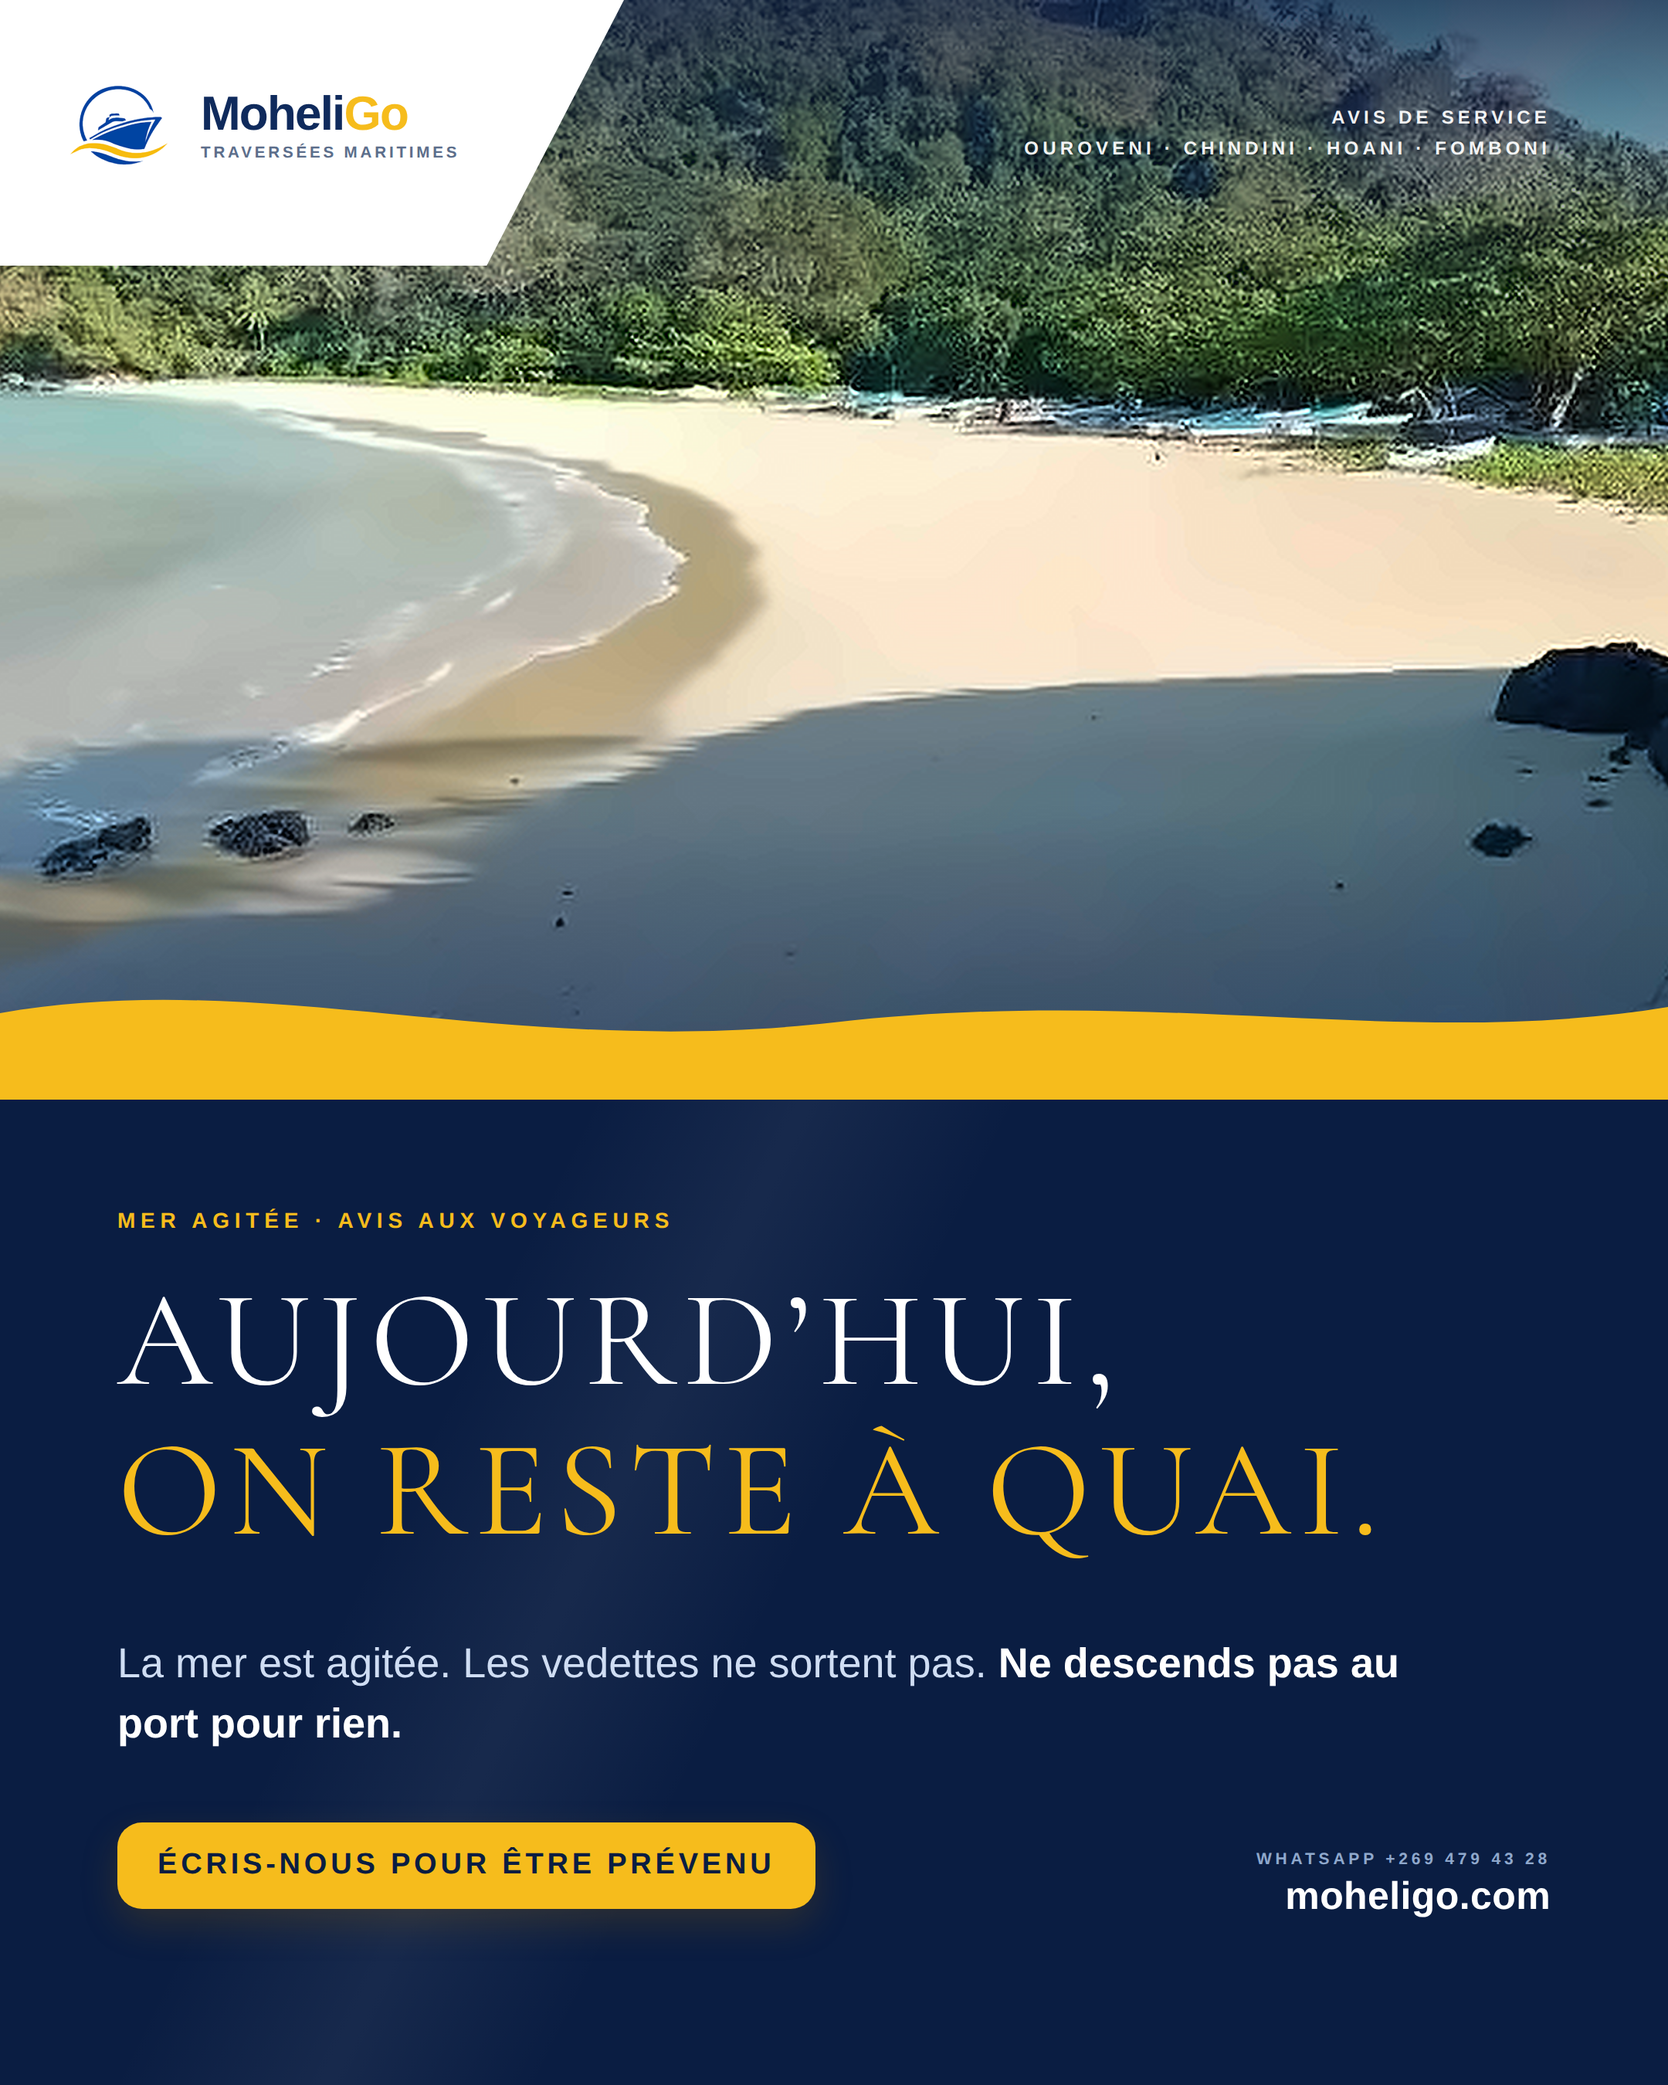
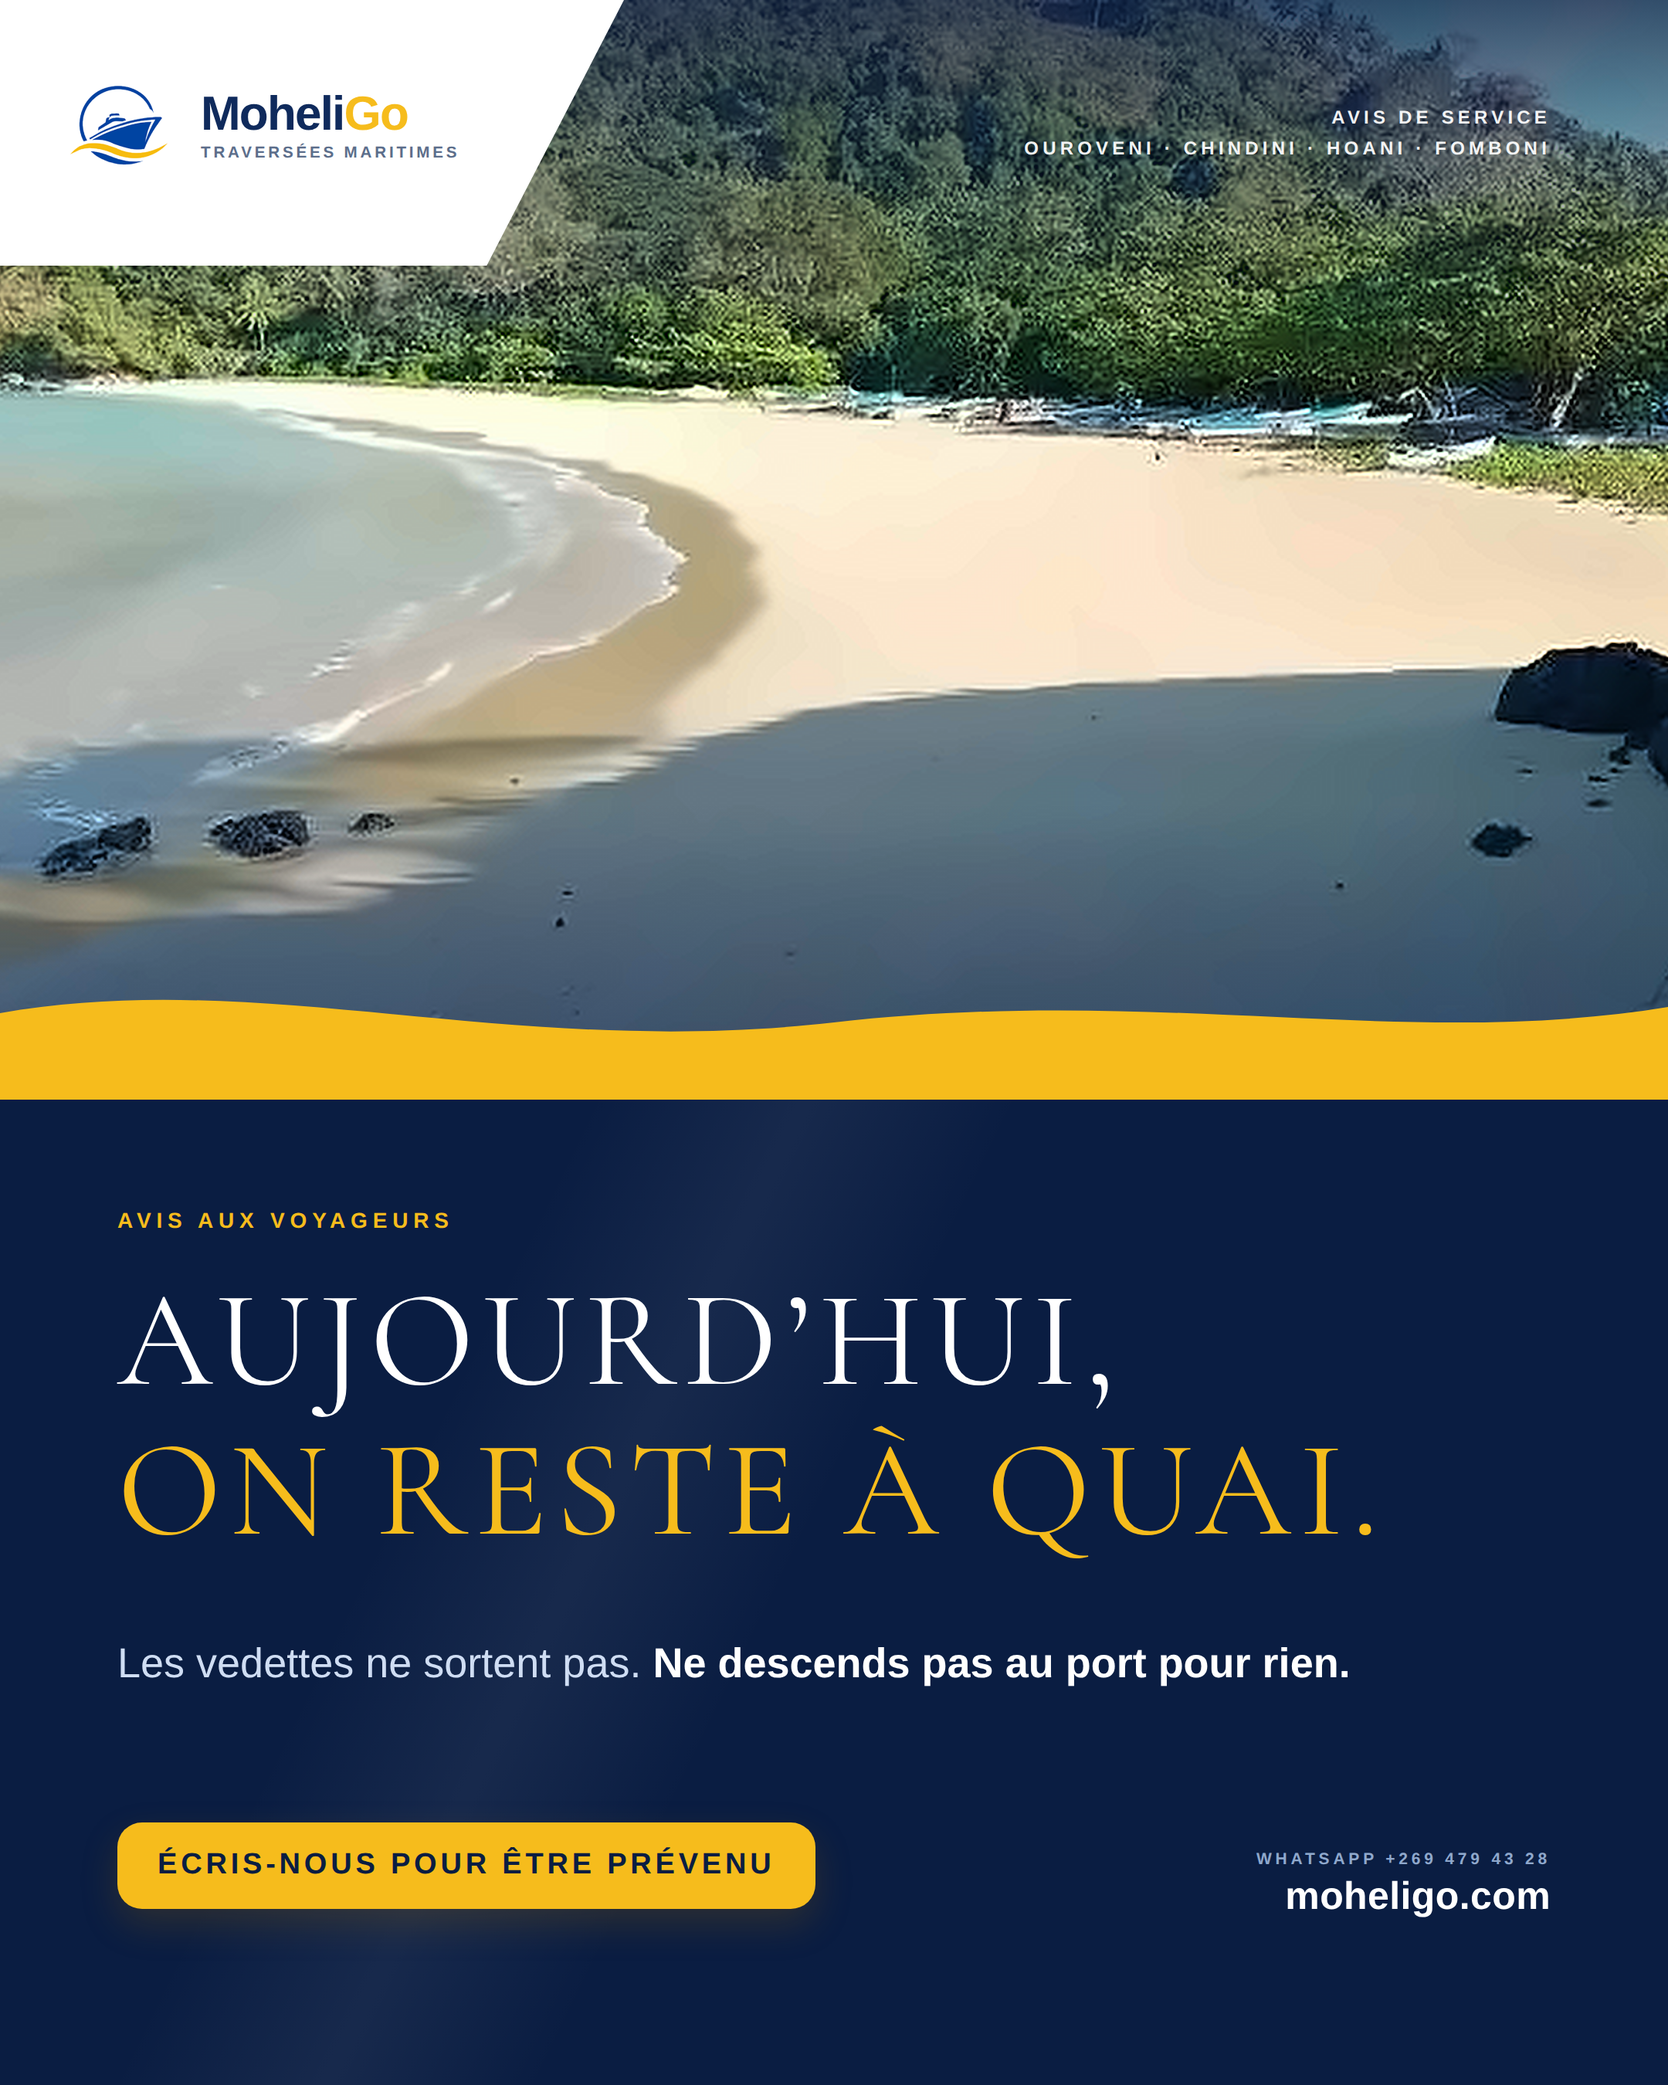
Premier jour de fermeture : quatre mensonges arretes avant midi
Le visuel du mercredi n'a pas ete publie : refaire.py lit la photo d'origine du
patron dans /root/.claude/uploads/, un depot de session efface avec le conteneur
precedent. La chaine complete est dans le depot, sa matiere premiere non — un
programme reproductible qui lit un fichier hors du depot ne l'est pas. L'ecran
affiche 09/09/2026, soit AUJOURD'HUI, un jour sans depart.

L'avis de suspension prend sa place, apres trois corrections :

1. LA CAUSE SORT DES VISUELS ET DES TEXTES FIGES. « MER AGITEE » etait grave
   dans le surtitre, « La mer est agitee » dans le corps, « c'est la mer qui
   decide » dans paragraphe_reprise(), et programme.py avait un repli
   `raison or 'la mer'`. Quatre endroits, tous vrais les deux fois precedentes.
   Le patron a ferme sans dire pourquoi : un repli qui invente n'est pas un
   repli. Un visuel qu'on republie ne porte que ce qui ne change pas.
2. LE REMBOURSEMENT. « Tu peux annuler et etre rembourse » — or il repasse par
   MVola, hors service. service.phrase_remboursement() garde le droit entier et
   dit que l'argent attendra, avant qu'on nous le demande.
3. L'ANNONCE MVOLA disait encore « les vedettes partent normalement », collee
   sous un avis qui dit « on reste a quai ». Elle lit maintenant ouvert().

Deux pannes simultanees ne s'additionnent pas, elles se croisent : chaque
mention etait juste sur son etat et aveugle a l'autre.

Controles sur l'avis refait : conforme, zero collision, famille 5/5, 18,5 %.
[…]

Changed region(s): [[0.062, 0.7778, 0.8375, 0.84], [0.062, 0.56, 0.2792, 0.5911], [0.3412, 0.56, 0.4032, 0.5911]]

diff --git a/moheligo/pub/flyers/flyer31-suspension-fb.html b/moheligo/pub/flyers/flyer31-suspension-fb.html
@@ -171,12 +171,27 @@ body { width:1080px; height:1350px; font-family:'Inter',sans-serif; -webkit-font
     <div><b>Moheli<i>Go</i></b><small>TRAVERSÉES MARITIMES</small></div>
   </div>
 
+  <!-- 🚩 09/09/2026 — LA CAUSE SORT DU VISUEL, ET C'EST DÉFINITIF.
+       Ce visuel disait « MER AGITÉE » en surtitre et « La mer est agitée » dans
+       le corps. Il a servi le 12/08 et le 26/08, deux fermetures dues à la mer —
+       donc c'était vrai, et personne n'a vu le piège.
+       ⛔ LE 09/09 LE PATRON A FERMÉ SANS DIRE POURQUOI : « les liaisons sont
+       suspendues jusqu'à nouvel ordre. » La mer montait (1,94 m annoncé), mais
+       une raison PLAUSIBLE n'est pas une raison DONNÉE — si la cause est une
+       avarie ou une décision administrative, ce visuel publie un mensonge, et il
+       reste sur la page pour toujours.
+       📌 **UN VISUEL QU'ON REPUBLIE NE DOIT PORTER QUE CE QUI NE CHANGE PAS.**
+       Ce qui ne change jamais d'une fermeture à l'autre : les vedettes ne
+       sortent pas, ne descends pas au port. La cause, elle, change à chaque
+       fois — elle vit donc dans le TEXTE du post, qui se fabrique le jour même
+       à partir de `service.FERMETURE['raison']`, et disparaît quand on ne la
+       connaît pas. -->
   <div class="ligne">AVIS DE SERVICE<br>OUROVENI · CHINDINI · HOANI · FOMBONI</div>
 
-  <div class="sur">MER AGITÉE · AVIS AUX VOYAGEURS</div>
+  <div class="sur">AVIS AUX VOYAGEURS</div>
   <div class="acc">AUJOURD’HUI,<span>ON RESTE À QUAI.</span></div>
 
-  <div class="dit">La mer est agitée. Les vedettes ne sortent pas.
+  <div class="dit">Les vedettes ne sortent pas.
     <b>Ne descends pas au port pour rien.</b></div>
 
   <div class="cta">ÉCRIS-NOUS POUR ÊTRE PRÉVENU</div>

diff --git a/moheligo/pub/flyers/service.py b/moheligo/pub/flyers/service.py
@@ -346,6 +346,23 @@ def mention_paiement():
     ✍ Apostrophes typographiques ’ et non ' (norme § 5) : ce paragraphe part
     sur tout ce qu'on publie, c'est le passage le plus lu de la période.
     """
+    # 🚨 09/09/2026 — CETTE ANNONCE DISAIT « LES VEDETTES PARTENT NORMALEMENT »,
+    # ET C'EST DEVENU FAUX EN UNE NUIT. Écrite le 03/09, elle était juste : seul
+    # le paiement était tombé. Le 09/09 le patron suspend les liaisons, et
+    # l'annonce a continué à affirmer le contraire — collée, en plus, SOUS l'avis
+    # de suspension qui disait « on reste à quai ». Le même post se contredisait
+    # à quinze lignes d'écart.
+    # 📌 **DEUX PANNES SIMULTANÉES NE S'ADDITIONNENT PAS, ELLES SE CROISENT.**
+    # Chaque mention était juste sur SON état et aveugle à l'autre. Une mention
+    # qui parle d'un état voisin doit lire cet état, sinon elle le périme.
+    # ⚠ Et pendant la fermeture elle se raccourcit : la place se prend pour les
+    # jours à venir (c'est la mention de fermeture qui le dit), l'annonce n'a
+    # plus qu'à expliquer par où passer.
+    if not ouvert():
+        return ("""⚠ %s : MVola est hors service.
+Pour retenir une place sur les jours à venir, écris-nous sur WhatsApp au
++269 479 43 28 : on la prend à la main, le temps que MVola revienne."""
+                % MARQUE_PANNE)
     return ("""⚠ %s : MVola est hors service.
 Les vedettes partent normalement — c’est le paiement qui est tombé, pas la
 traversée. Écris-nous sur WhatsApp au +269 479 43 28 : on prend ta place à la
@@ -504,10 +521,44 @@ def paragraphe_reprise():
         titre = 'QUAND ÇA REPREND : C’EST PRÉVU %s.' % jour.upper()
     else:
         titre = 'QUAND ÇA REPREND : ON NE LE SAIT PAS ENCORE.'
+    # 🚩 09/09/2026 — « C'EST LA MER QUI DÉCIDE » NE SORT QUE SI C'EST LA MER.
+    # Cette phrase de prudence était écrite en dur. Elle a toujours été vraie —
+    # les deux fermetures précédentes venaient de la houle — mais elle DÉSIGNE
+    # UNE CAUSE, et le 09/09 le patron a fermé sans en donner. Une phrase de
+    # prudence qui invente une cause n'est plus prudente.
+    # 📌 Sans raison connue, on garde ce qui reste vrai dans tous les cas : nous
+    # ne décidons pas des départs.
+    prudence = ('c’est la mer qui décide, et nous ne décidons pas\ndes départs'
+                if FERMETURE.get('raison') else
+                'nous ne décidons pas des départs')
     return (titre + '\n'
-            'Ce n’est pas une date promise — c’est la mer qui décide, et nous ne '
-            'décidons pas\ndes départs. Le jour où ça rouvre, tu le liras ici en '
-            'premier.')
+            'Ce n’est pas une date promise — %s.\nLe jour où ça rouvre, tu le '
+            'liras ici en premier.' % prudence)
+
+
+def phrase_remboursement():
+    """Ce qu'on promet sur l'annulation — et qui dépend de l'état du PAIEMENT.
+
+    🚨 09/09/2026 — TROUVÉ EN RELISANT L'AVIS DE SUSPENSION AVANT DE LE PUBLIER.
+    Le texte disait, sans condition : « tant que la traversée n'est pas partie,
+    tu peux annuler et être remboursé ». Or **le remboursement repasse par
+    MVola**, qui est hors service depuis le 03/09. Le même post aurait promis un
+    remboursement immédiat et annoncé, huit lignes plus bas, que le paiement en
+    ligne est mort.
+    📌 **DEUX PANNES SIMULTANÉES NE S'ADDITIONNENT PAS, ELLES SE CROISENT.** La
+    fermeture pousse les gens à annuler ; la panne de paiement empêche de les
+    rembourser. Aucune des deux mentions, prise seule, ne voyait ce croisement —
+    il fallait qu'une phrase connaisse LES DEUX états.
+    ⚠ On ne retire pas le droit d'annuler : il reste entier. On dit seulement
+    que l'argent attendra, et on le dit AVANT qu'on nous le demande.
+    """
+    if not paiement_en_panne():
+        return ('Et tant que la traversée n’est pas partie, tu peux annuler et '
+                'être\nremboursé. Écris-nous, on s’en occupe.')
+    return ('Tu peux aussi annuler,\nton droit reste entier — mais le '
+            'remboursement passe par MVola, qui est hors\nservice : il partira '
+            'dès que MVola revient. Écris-nous, on note ton annulation\ntout de '
+            'suite.')
 
 
 def commentaire_bulletin():

diff --git a/moheligo/pub/flyers/programme.py b/moheligo/pub/flyers/programme.py
@@ -74,9 +74,20 @@ def avis_de_suspension():
     """(visuel, texte) de l'avis de service suspendu, daté depuis service.py."""
     modele = next(f['texte'] for f in page.FLYERS if f['png'] == service.VISUEL_AVIS)
     d = datetime.date.fromisoformat(service.FERMETURE['depuis'])
+    # 🚩 09/09/2026 — LA CAUSE EST UNE PHRASE ENTIÈRE, OU RIEN DU TOUT.
+    # Avant : `raison=... or 'la mer'`, et le texte ouvrait sur « La mer est
+    # agitée. » écrit en dur. Deux façons d'affirmer une cause qu'on ne connaît
+    # pas toujours — le 09/09 le patron a fermé sans dire pourquoi.
+    # 📌 **UN REPLI QUI INVENTE N'EST PAS UN REPLI.** `or 'la mer'` avait l'air
+    # prudent : il fabriquait quand même une explication. Maintenant, pas de
+    # raison = pas de phrase, et le paragraphe se referme tout seul.
+    raison = service.FERMETURE.get('raison')
     return service.VISUEL_AVIS, modele.format(
         depuis='%d %s' % (d.day, MOIS[d.month - 1]),
-        raison=service.FERMETURE.get('raison') or 'la mer',
+        cause='%s%s. ' % (raison[0].upper(), raison[1:]) if raison else '',
+        # ⚠ L'annulation dépend de l'état du PAIEMENT, pas de celui du service :
+        # le remboursement repasse par MVola (voir service.phrase_remboursement).
+        remboursement=service.phrase_remboursement(),
         # ⚠ jamais écrit en dur : une date de reprise ne sort que si le patron
         # en a donné une (service.paragraphe_reprise)
         reprise=service.paragraphe_reprise())

diff --git a/moheligo/dossier/MEMOIRE.md b/moheligo/dossier/MEMOIRE.md
@@ -370,6 +370,54 @@ recharger ce sujet ici, ce n'est pas du marketing.
 
 ## 6. Journal des sessions
 
+- **09/09/2026 (🚨 QUATRE MENSONGES ARRÊTÉS AVANT MIDI — le jour où les deux
+  pannes se sont croisées)** — premier jour de la fermeture. Le visuel du
+  mercredi était impubliable et l'avis de suspension mentait : rien n'est parti
+  avant d'être refait.
+
+  ⛔ **1. LE VISUEL DU MERCREDI NE POUVAIT PAS ÊTRE RÉGÉNÉRÉ.** `refaire.py` lit
+  la photo d'origine du patron dans `/root/.claude/uploads/…` — **un dépôt de
+  session, effacé avec le conteneur précédent**. La chaîne complète (capture de
+  l'appli, mise en scène, agrandissement) est dans le dépôt ; **sa matière
+  première n'y est pas.**
+  📌 **UN PROGRAMME REPRODUCTIBLE QUI LIT UN FICHIER HORS DU DÉPÔT N'EST PAS
+  REPRODUCTIBLE.** Il l'a été tant que la session durait, ce qui donnait l'air
+  d'un outil fini. L'écran affiche `09/09/2026`, c'est-à-dire AUJOURD'HUI — une
+  recherche de traversée pour un jour sans départ. **Non publié.**
+  👉 À demander au patron : renvoyer la photo du téléphone, et elle rentre cette
+  fois DANS le dépôt.
+
+  ⛔ **2. L'AVIS DE SUSPENSION AFFIRMAIT UNE CAUSE QU'IL N'A PAS DONNÉE.** Le
+  visuel gravait « MER AGITÉE » en surtitre, le texte ouvrait sur « La mer est
+  agitée », `paragraphe_reprise()` ajoutait « c'est la mer qui décide », et
+  `programme.py` avait un repli `raison or 'la mer'`. **Quatre endroits, tous
+  écrits en dur, tous vrais les deux fois précédentes.**
+  📌 **UN REPLI QUI INVENTE N'EST PAS UN REPLI** — `or 'la mer'` avait l'air
+  prudent et fabriquait quand même une explication.
+  📌 **UN VISUEL QU'ON REPUBLIE NE DOIT PORTER QUE CE QUI NE CHANGE PAS.** Les
+  vedettes ne sortent pas : vrai à chaque fermeture. La cause : jamais deux fois
+  la même. Elle vit désormais dans le texte, fabriqué le jour même, et disparaît
+  quand on ne la connaît pas.
+
+  ⛔ **3. L'AVIS PROMETTAIT UN REMBOURSEMENT QUE MVOLA NE PEUT PAS FAIRE.**
+  « Tu peux annuler et être remboursé » — or le remboursement repasse par MVola,
+  hors service depuis six jours. Le même post l'aurait promis puis annoncé
+  l'inverse huit lignes plus bas. ✅ `service.phrase_remboursement()` : le droit
+  d'annuler reste entier, **et on dit que l'argent attendra, avant qu'on nous le
+  demande.**
+
+  ⛔ **4. L'ANNONCE MVOLA DISAIT ENCORE « LES VEDETTES PARTENT NORMALEMENT ».**
+  Écrite le 03/09, elle était juste : seul le paiement était tombé. Six jours
+  plus tard elle se retrouvait collée SOUS l'avis qui dit « on reste à quai ».
+  ✅ Elle lit maintenant `ouvert()` et se raccourcit pendant la fermeture.
+
+  📌 **LA LEÇON DU JOUR, ET ELLE VAUT PLUS QUE LES QUATRE CORRECTIONS : DEUX
+  PANNES SIMULTANÉES NE S'ADDITIONNENT PAS, ELLES SE CROISENT.** La fermeture
+  pousse les gens à annuler ; la panne de paiement empêche de les rembourser.
+  Chaque mention était juste sur SON état et aveugle à l'autre — aucune ne
+  pouvait voir le croisement toute seule. **Une mention qui parle d'un état
+  voisin doit lire cet état, sinon elle le périme en silence.**
+
 - **08/09/2026 (📅 LE PLAN DE LA SEMAINE — et un plan qui nommait des fichiers
   effacés)** — le patron : « publié, plan pour la semaine ». Écrit dans
   `PLAN-PUBLICITAIRE.md` § 8 bis (semaine du 9 au 15/09).
